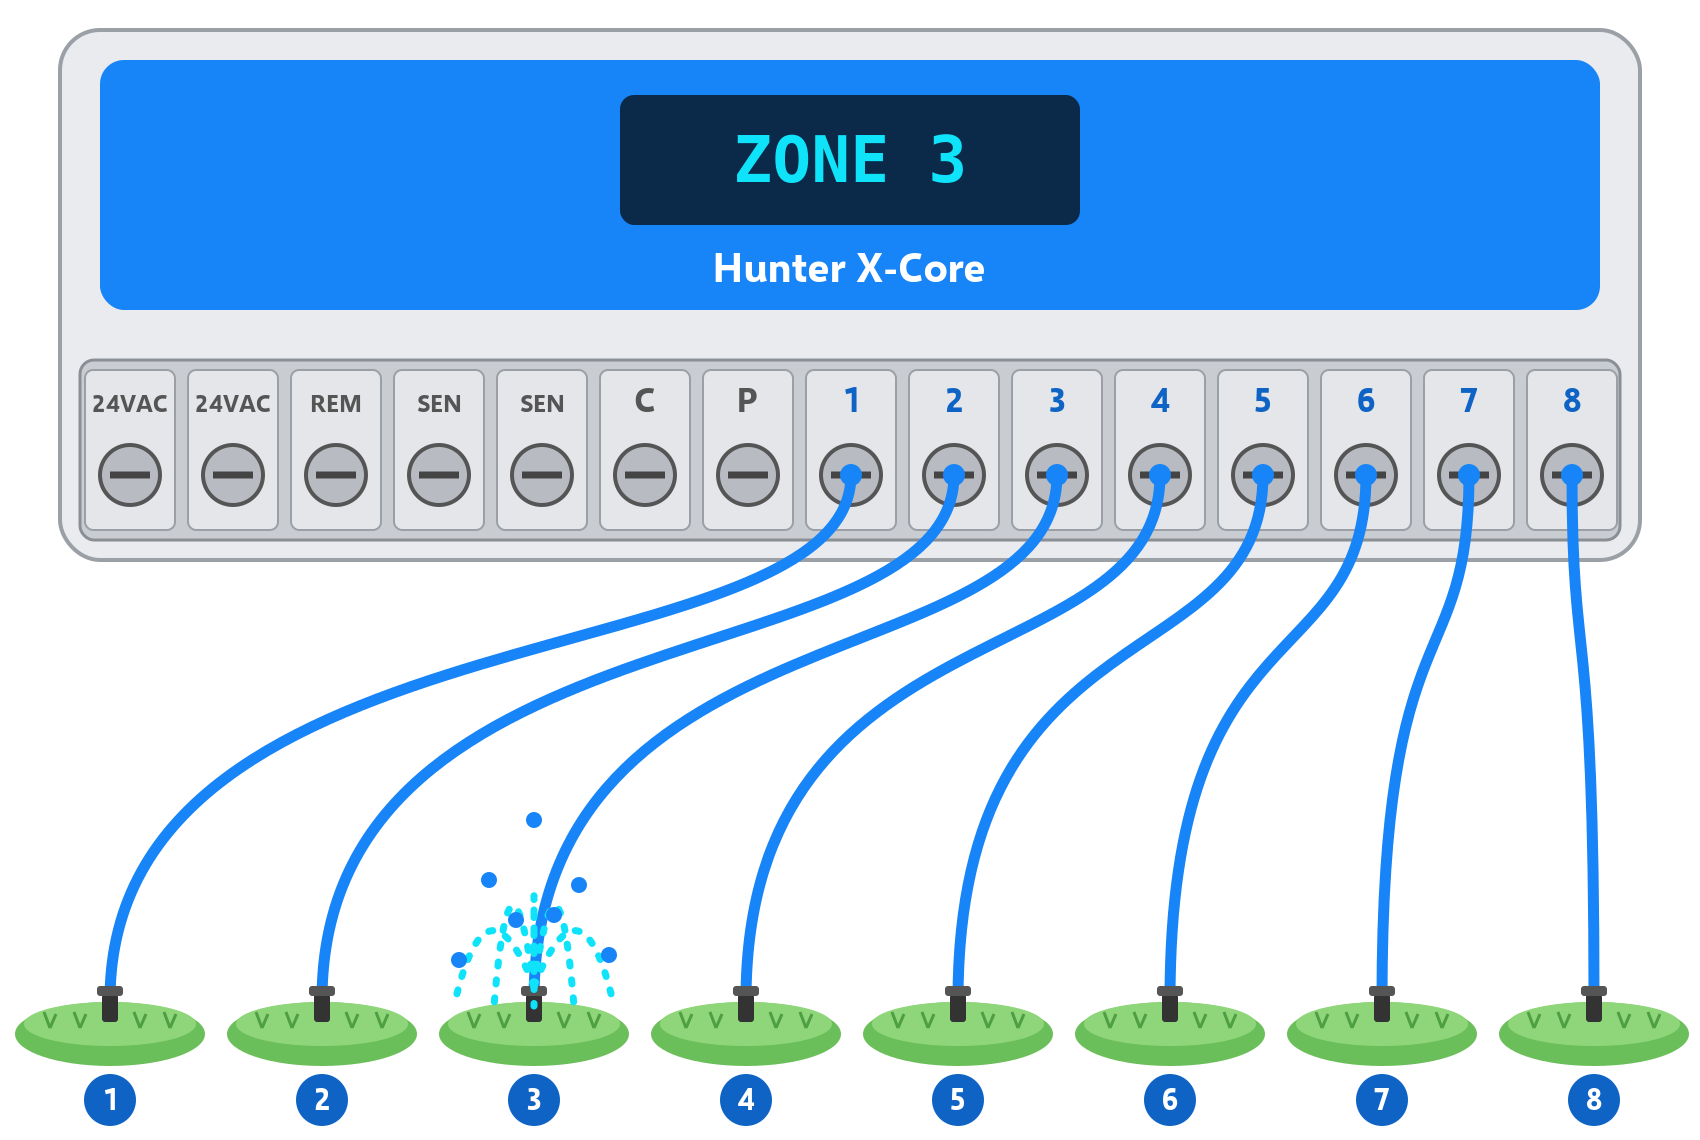
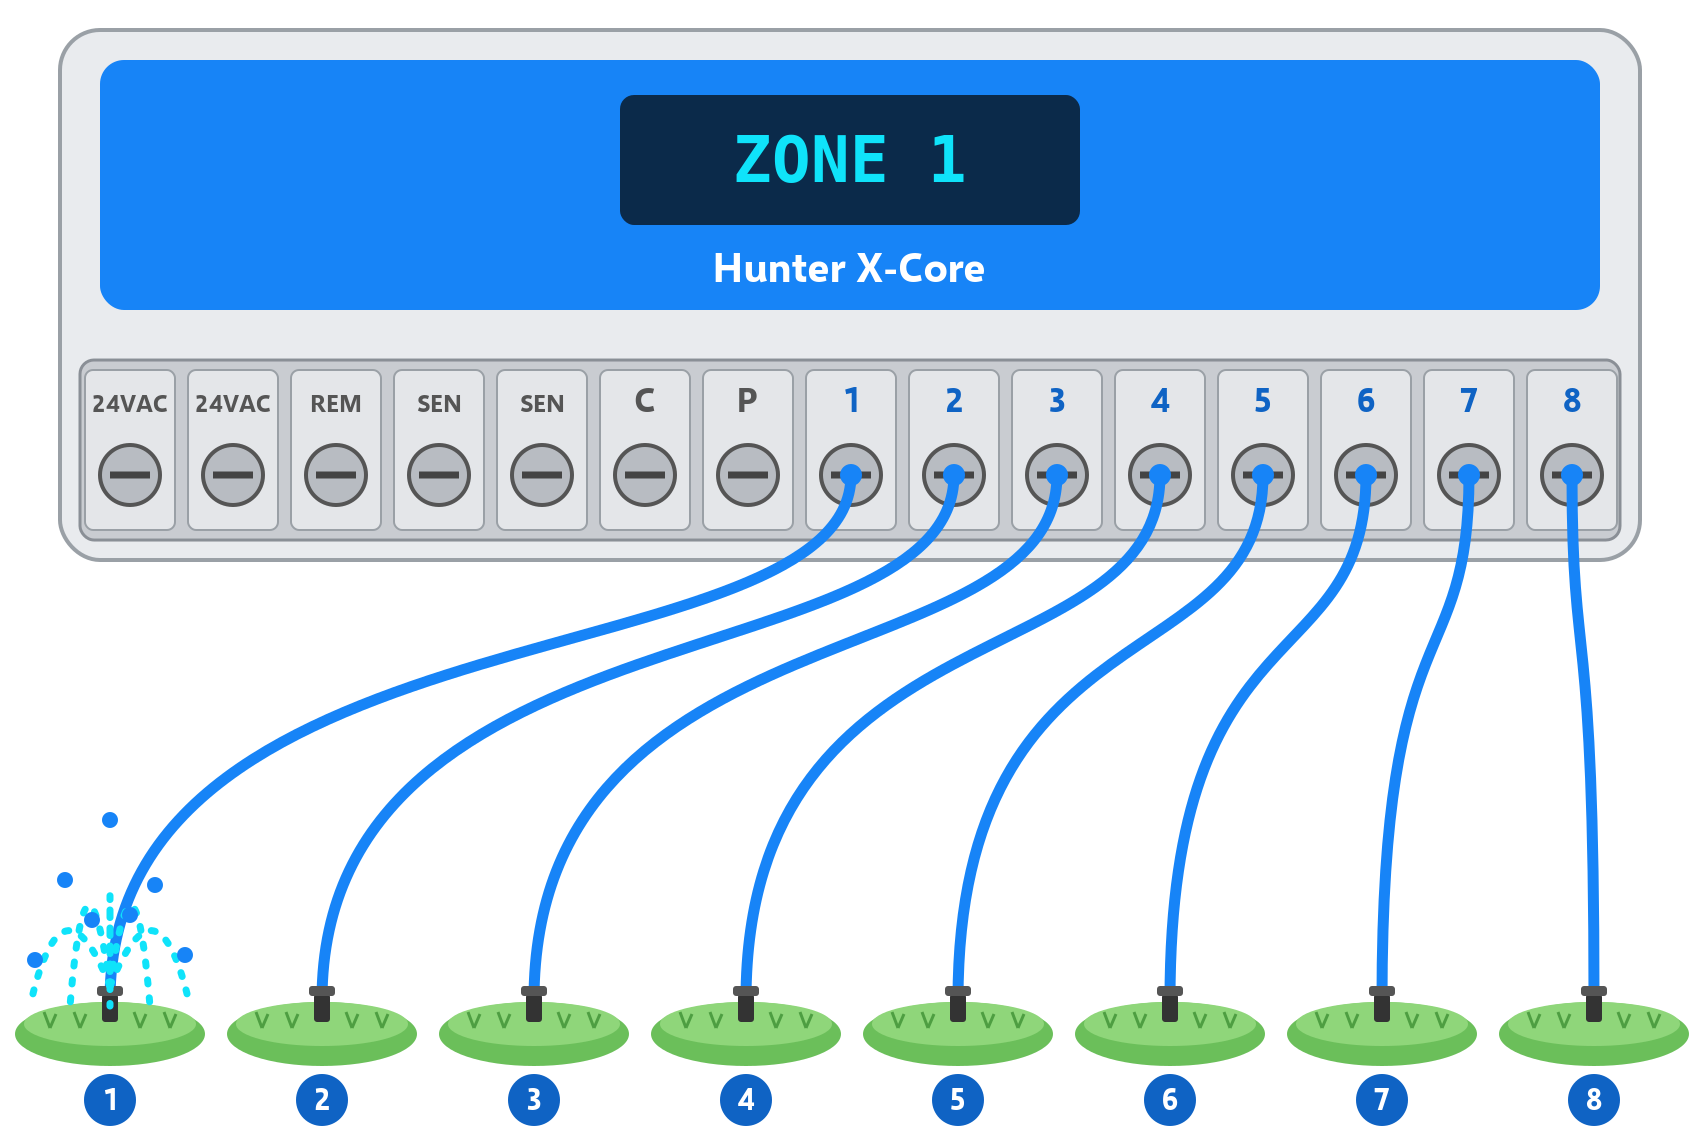
docs: board→X-Core table under wiring picture; release v0.1.9
READMEs and the web installer now show the connection table right under
the X-Core wiring picture. Bump project_version to 0.1.9.

diff --git a/static/index.html b/static/index.html
@@ -189,6 +189,16 @@
       <li>Plug the transformer back in. The LED blinks until it is on Wi-Fi.</li>
     </ol>
     <a class="diagram" href="wiring.svg"><img src="wiring.svg" alt="Hunter X-Core with zones 1 to 8 going to the sprinklers" loading="lazy"></a>
+    <p class="pt">A imagem mostra o X-Core e as zonas. Onde vai cada fio da Hunter_LS:</p>
+    <p class="en">The picture shows the X-Core and its zones. Where each Hunter_LS wire goes:</p>
+    <table>
+      <tr><td>VAC-L, VAC-R</td><td><span class="pt">→ 24VAC, 24VAC — alimenta a placa</span><span class="en">→ 24VAC, 24VAC — powers the board</span></td></tr>
+      <tr><td>REM</td><td><span class="pt">→ REM — comandos do comando ROAM</span><span class="en">→ REM — ROAM remote commands</span></td></tr>
+      <tr><td>SEN-L, SEN-R</td><td><span class="pt">→ SEN, SEN — <i>Pause Watering</i> (interruptor do sensor em <b>Active</b>)</span><span class="en">→ SEN, SEN — <i>Pause Watering</i> (sensor switch on <b>Active</b>)</span></td></tr>
+      <tr><td>ZC</td><td><span class="pt">→ C — comum das válvulas</span><span class="en">→ C — valve common</span></td></tr>
+      <tr><td>Z1 … Z8</td><td><span class="pt">→ 1 … 8 — feedback das válvulas (v1: só Z1–Z4)</span><span class="en">→ 1 … 8 — valve feedback (v1: Z1–Z4 only)</span></td></tr>
+      <tr><td><span class="pt">Jumper azul</span><span class="en">Blue jumper</span></td><td><b>5V</b> <span class="pt">com a placa no X-Core</span><span class="en">when fitted in the X-Core</span>; <b>N/C</b> <span class="pt">só para gravar por USB</span><span class="en">for USB-only flashing</span></td></tr>
+    </table>
     <img class="photo" src="install-detail.jpg" alt="Hunter_LS board fitted in a Hunter X-Core" loading="lazy">
     <p class="ver"><span class="pt">Foto: Luís Soares (placa v1.0.0, as outras montam-se igual).</span><span class="en">Photo: Luís Soares (v1.0.0 board, the others fit the same way).</span>
       <a href="https://github.com/skydoy/ESPHOME_Hunter/tree/main/hardware"><span class="pt">Mais fotos</span><span class="en">More photos</span></a></p>

diff --git a/README.pt.md b/README.pt.md
@@ -31,6 +31,19 @@ Tudo local: sem nuvem, sem app, sem conta.
 
 [![Esquema de ligações](docs/img/wiring.svg)](docs/hardware.md#wiring)
 
+A imagem mostra o X-Core e as zonas. Onde vai cada fio da Hunter_LS:
+
+| Hunter_LS (legenda na PCB) | Terminal do X-Core | Para que serve |
+|---|---|---|
+| VAC-L, VAC-R | 24VAC, 24VAC | Alimenta a placa |
+| REM | REM | Comandos do comando ROAM |
+| SEN-L, SEN-R | SEN, SEN | *Pause Watering* (põe o interruptor do sensor em **Active**) |
+| ZC | C | Comum das válvulas (retorno do feedback) |
+| Z1 … Z8 | 1 … 8 | Feedback das válvulas (v1: só Z1–Z4) |
+
+Jumper de alimentação (azul): **5V** com a placa no X-Core; **N/C** só para gravar por USB.
+Mais detalhe: **[Hardware e pinos](docs/hardware.md#wiring)**.
+
 Passo a passo com fotos: **[Guia rápido](docs/guia-rapido.md)** · **[Quick start (EN)](docs/quick-start.md)**
 
 ## O que aparece no Home Assistant
@@ -66,7 +79,7 @@ Só são oferecidas versões testadas, do ramo `stable`.
   mas, se preferires, atualiza por USB no [instalador](https://skydoy.github.io/ESPHOME_Hunter/).
 
 ## Histórico de alterações
-Última versão: **v0.1.5** – textos em português passam a tratar-te por “tu”, como nos outros projetos.
+Última versão: **v0.1.9** – esquema de ligações (X-Core + aspersores animados) e a tabela placa→X-Core nos READMEs e no instalador.
 Todas as versões: [CHANGELOG.md](CHANGELOG.md).
 
 ## Documentação

diff --git a/README.md b/README.md
@@ -37,6 +37,19 @@ Local only: no cloud, no app, no account.
 
 [![Wiring diagram](docs/img/wiring.svg)](docs/hardware.md#wiring)
 
+The picture shows the X-Core and its zones. Where each Hunter_LS wire goes:
+
+| Hunter_LS (PCB label) | X-Core terminal | What it does |
+|---|---|---|
+| VAC-L, VAC-R | 24VAC, 24VAC | Powers the board |
+| REM | REM | ROAM remote commands |
+| SEN-L, SEN-R | SEN, SEN | *Pause Watering* (set sensor switch to **Active**) |
+| ZC | C | Valve common (feedback return) |
+| Z1 … Z8 | 1 … 8 | Valve feedback (v1: Z1–Z4 only) |
+
+Power jumper (blue): **5V** when installed in the X-Core; **N/C** for USB-only flashing.
+More detail: **[Hardware & pins](docs/hardware.md#wiring)**.
+
 Step-by-step with photos: **[Quick start](docs/quick-start.md)** · **[Guia rápido (PT)](docs/guia-rapido.md)**
 
 ## What you get in Home Assistant
@@ -72,7 +85,7 @@ Only tested releases from the `stable` branch are offered.
   but if you prefer, update by USB from the [installer](https://skydoy.github.io/ESPHOME_Hunter/).
 
 ## Changelog
-Latest: **v0.1.5** – Portuguese texts now use the informal "tu" form, like the other projects.
+Latest: **v0.1.9** – wiring picture (X-Core + animated sprinklers) and the board→X-Core connection table in the READMEs and installer.
 All versions: [CHANGELOG.md](CHANGELOG.md).
 
 ## Docs

diff --git a/CHANGELOG.md b/CHANGELOG.md
@@ -7,6 +7,10 @@ described in the [README](README.md); firmware versions below are independent of
 
 ## [Unreleased]
 
+## [0.1.9] - 2026-11-09
+### Changed
+- READMEs and the web installer now show the board→X-Core connection table right under the wiring picture (X-Core with animated sprinklers).
+
 ## [0.1.8] - 2026-11-07
 ### Changed
 - Wiring picture simplified: only the Hunter X-Core and its zones 1–8 with animated sprinklers (zones run one after another). Board-to-X-Core connections are in the table in docs/hardware.md and in the installer text.
@@ -63,7 +67,8 @@ described in the [README](README.md); firmware versions below are independent of
 ### Not yet verified
 - Not yet tested on a real board with this firmware. Please report how it goes in an issue.
 
-[Unreleased]: https://github.com/skydoy/ESPHOME_Hunter/compare/v0.1.8...HEAD
+[Unreleased]: https://github.com/skydoy/ESPHOME_Hunter/compare/v0.1.9...HEAD
+[0.1.9]: https://github.com/skydoy/ESPHOME_Hunter/compare/v0.1.8...v0.1.9
 [0.1.8]: https://github.com/skydoy/ESPHOME_Hunter/compare/v0.1.7...v0.1.8
 [0.1.7]: https://github.com/skydoy/ESPHOME_Hunter/compare/v0.1.6...v0.1.7
 [0.1.6]: https://github.com/skydoy/ESPHOME_Hunter/compare/v0.1.5...v0.1.6

diff --git a/docs/hardware.md b/docs/hardware.md
@@ -10,7 +10,7 @@ following **CZSmith**'s HunterMonitor schematic:
 ## Wiring
 ![Hunter X-Core with zones 1 to 8 going to the sprinklers (animated)](img/wiring.svg)
 
-The picture shows the X-Core and its zones. The table says where each Hunter_LS wire goes.
+The picture shows the X-Core and its zones. The table below says where each Hunter_LS wire goes (same table as in the READMEs and the web installer).
 
 > ⚠ Unplug the X-Core transformer from the mains before wiring. The board only touches the 24 V AC side.
 
